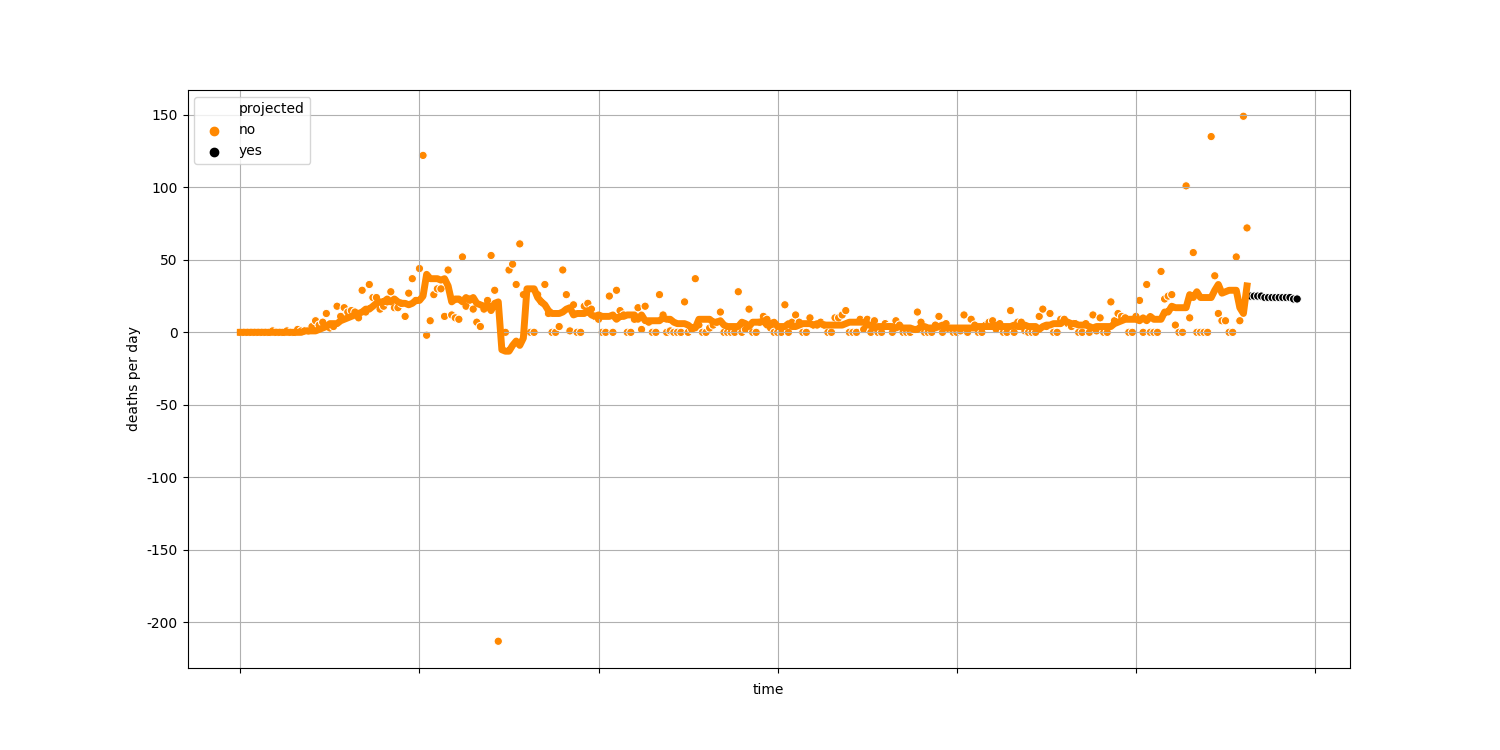
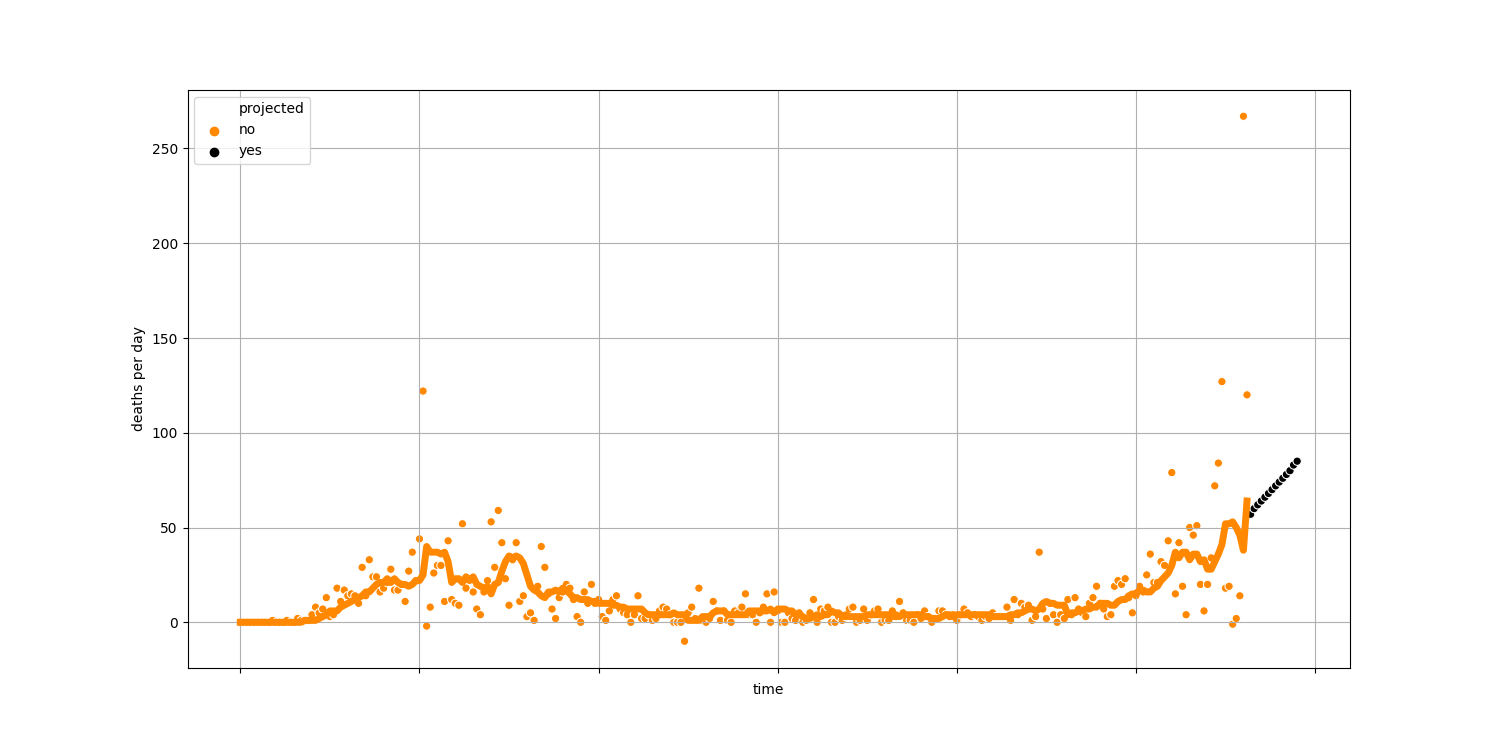
regular update

diff --git a/docs/table.html b/docs/table.html
@@ -100,7 +100,7 @@
     <script type="text/javascript">
       window.addEventListener('DOMContentLoaded', () => {
 
-        const data = [{'state': 'Alabama', 'deaths_per_million_per_day': '8', 'positive_per_million_per_day': '681'}, {'state': 'Alaska', 'deaths_per_million_per_day': '5', 'positive_per_million_per_day': '939'}, {'state': 'American Samoa', 'deaths_per_million_per_day': '0', 'positive_per_million_per_day': '0'}, {'state': 'Arizona', 'deaths_per_million_per_day': '7', 'positive_per_million_per_day': '817'}, {'state': 'Arkansas', 'deaths_per_million_per_day': '13', 'positive_per_million_per_day': '716'}, {'state': 'California', 'deaths_per_million_per_day': '3', 'positive_per_million_per_day': '631'}, {'state': 'Colorado', 'deaths_per_million_per_day': '6', 'positive_per_million_per_day': '773'}, {'state': 'Connecticut', 'deaths_per_million_per_day': '8', 'positive_per_million_per_day': '766'}, {'state': 'Delaware', 'deaths_per_million_per_day': '3', 'positive_per_million_per_day': '836'}, {'state': 'District of Columbia', 'deaths_per_million_per_day': '3', 'positive_per_million_per_day': '407'}, {'state': 'Florida', 'deaths_per_million_per_day': '5', 'positive_per_million_per_day': '424'}, {'state': 'Georgia', 'deaths_per_million_per_day': '5', 'positive_per_million_per_day': '365'}, {'state': 'Guam', 'deaths_per_million_per_day': '0', 'positive_per_million_per_day': '103'}, {'state': 'Hawaii', 'deaths_per_million_per_day': '2', 'positive_per_million_per_day': '72'}, {'state': 'Idaho', 'deaths_per_million_per_day': '9', 'positive_per_million_per_day': '845'}, {'state': 'Illinois', 'deaths_per_million_per_day': '14', 'positive_per_million_per_day': '720'}, {'state': 'Indiana', 'deaths_per_million_per_day': '11', 'positive_per_million_per_day': '1,007'}, {'state': 'Iowa', 'deaths_per_million_per_day': '26', 'positive_per_million_per_day': '494'}, {'state': 'Kansas', 'deaths_per_million_per_day': '13', 'positive_per_million_per_day': '870'}, {'state': 'Kentucky', 'deaths_per_million_per_day': '4', 'positive_per_million_per_day': '715'}, {'state': 'Louisiana', 'deaths_per_million_per_day': '6', 'positive_per_million_per_day': '540'}, {'state': 'Maine', 'deaths_per_million_per_day': '3', 'positive_per_million_per_day': '239'}, {'state': 'Maryland', 'deaths_per_million_per_day': '6', 'positive_per_million_per_day': '456'}, {'state': 'Massachusetts', 'deaths_per_million_per_day': '7', 'positive_per_million_per_day': '723'}, {'state': 'Michigan', 'deaths_per_million_per_day': '12', 'positive_per_million_per_day': '651'}, {'state': 'Minnesota', 'deaths_per_million_per_day': '11', 'positive_per_million_per_day': '918'}, {'state': 'Mississippi', 'deaths_per_million_per_day': '9', 'positive_per_million_per_day': '663'}, {'state': 'Missouri', 'deaths_per_million_per_day': '8', 'positive_per_million_per_day': '593'}, {'state': 'Montana', 'deaths_per_million_per_day': '7', 'positive_per_million_per_day': '775'}, {'state': 'Nebraska', 'deaths_per_million_per_day': '14', 'positive_per_million_per_day': '917'}, {'state': 'Nevada', 'deaths_per_million_per_day': '8', 'positive_per_million_per_day': '897'}, {'state': 'New Hampshire', 'deaths_per_million_per_day': '4', 'positive_per_million_per_day': '552'}, {'state': 'New Jersey', 'deaths_per_million_per_day': '6', 'positive_per_million_per_day': '567'}, {'state': 'New Mexico', 'deaths_per_million_per_day': '13', 'positive_per_million_per_day': '816'}, {'state': 'New York', 'deaths_per_million_per_day': '4', 'positive_per_million_per_day': '505'}, {'state': 'North Carolina', 'deaths_per_million_per_day': '4', 'positive_per_million_per_day': '530'}, {'state': 'North Dakota', 'deaths_per_million_per_day': '21', 'positive_per_million_per_day': '835'}, {'state': 'Northern Mariana Islands', 'deaths_per_million_per_day': '0', 'positive_per_million_per_day': '18'}, {'state': 'Ohio', 'deaths_per_million_per_day': '6', 'positive_per_million_per_day': '1,004'}, {'state': 'Oklahoma', 'deaths_per_million_per_day': '5', 'positive_per_million_per_day': '746'}, {'state': 'Oregon', 'deaths_per_million_per_day': '5', 'positive_per_million_per_day': '343'}, {'state': 'Pennsylvania', 'deaths_per_million_per_day': '11', 'positive_per_million_per_day': '780'}, {'state': 'Puerto Rico', 'deaths_per_million_per_day': '3', 'positive_per_million_per_day': '235'}, {'state': 'Rhode Island', 'deaths_per_million_per_day': '12', 'positive_per_million_per_day': '1,254'}, {'state': 'South Carolina', 'deaths_per_million_per_day': '5', 'positive_per_million_per_day': '516'}, {'state': 'South Dakota', 'deaths_per_million_per_day': '25', 'positive_per_million_per_day': '939'}, {'state': 'Tennessee', 'deaths_per_million_per_day': '10', 'positive_per_million_per_day': '809'}, {'state': 'Texas', 'deaths_per_million_per_day': '7', 'positive_per_million_per_day': '409'}, {'state': 'U.S. Virgin Islands', 'deaths_per_million_per_day': '0', 'positive_per_million_per_day': '181'}, {'state': 'Utah', 'deaths_per_million_per_day': '4', 'positive_per_million_per_day': '906'}, {'state': 'Vermont', 'deaths_per_million_per_day': '3', 'positive_per_million_per_day': '188'}, {'state': 'Virginia', 'deaths_per_million_per_day': '3', 'positive_per_million_per_day': '413'}, {'state': 'Washington', 'deaths_per_million_per_day': '3', 'positive_per_million_per_day': '377'}, {'state': 'West Virginia', 'deaths_per_million_per_day': '10', 'positive_per_million_per_day': '684'}, {'state': 'Wisconsin', 'deaths_per_million_per_day': '11', 'positive_per_million_per_day': '767'}, {'state': 'Wyoming', 'deaths_per_million_per_day': '17', 'positive_per_million_per_day': '835'}, {'state': 'United States', 'deaths_per_million_per_day': '7', 'positive_per_million_per_day': '617'}];
+        const data = [{'state': 'Alabama', 'deaths_per_million_per_day': '8', 'positive_per_million_per_day': '681'}, {'state': 'Alaska', 'deaths_per_million_per_day': '5', 'positive_per_million_per_day': '939'}, {'state': 'American Samoa', 'deaths_per_million_per_day': '0', 'positive_per_million_per_day': '0'}, {'state': 'Arizona', 'deaths_per_million_per_day': '7', 'positive_per_million_per_day': '817'}, {'state': 'Arkansas', 'deaths_per_million_per_day': '13', 'positive_per_million_per_day': '716'}, {'state': 'California', 'deaths_per_million_per_day': '3', 'positive_per_million_per_day': '631'}, {'state': 'Colorado', 'deaths_per_million_per_day': '11', 'positive_per_million_per_day': '773'}, {'state': 'Connecticut', 'deaths_per_million_per_day': '8', 'positive_per_million_per_day': '766'}, {'state': 'Delaware', 'deaths_per_million_per_day': '3', 'positive_per_million_per_day': '836'}, {'state': 'District of Columbia', 'deaths_per_million_per_day': '3', 'positive_per_million_per_day': '407'}, {'state': 'Florida', 'deaths_per_million_per_day': '5', 'positive_per_million_per_day': '424'}, {'state': 'Georgia', 'deaths_per_million_per_day': '5', 'positive_per_million_per_day': '365'}, {'state': 'Guam', 'deaths_per_million_per_day': '0', 'positive_per_million_per_day': '103'}, {'state': 'Hawaii', 'deaths_per_million_per_day': '2', 'positive_per_million_per_day': '72'}, {'state': 'Idaho', 'deaths_per_million_per_day': '9', 'positive_per_million_per_day': '845'}, {'state': 'Illinois', 'deaths_per_million_per_day': '14', 'positive_per_million_per_day': '720'}, {'state': 'Indiana', 'deaths_per_million_per_day': '11', 'positive_per_million_per_day': '1,007'}, {'state': 'Iowa', 'deaths_per_million_per_day': '26', 'positive_per_million_per_day': '494'}, {'state': 'Kansas', 'deaths_per_million_per_day': '13', 'positive_per_million_per_day': '870'}, {'state': 'Kentucky', 'deaths_per_million_per_day': '4', 'positive_per_million_per_day': '715'}, {'state': 'Louisiana', 'deaths_per_million_per_day': '6', 'positive_per_million_per_day': '540'}, {'state': 'Maine', 'deaths_per_million_per_day': '3', 'positive_per_million_per_day': '239'}, {'state': 'Maryland', 'deaths_per_million_per_day': '6', 'positive_per_million_per_day': '456'}, {'state': 'Massachusetts', 'deaths_per_million_per_day': '7', 'positive_per_million_per_day': '723'}, {'state': 'Michigan', 'deaths_per_million_per_day': '12', 'positive_per_million_per_day': '651'}, {'state': 'Minnesota', 'deaths_per_million_per_day': '11', 'positive_per_million_per_day': '918'}, {'state': 'Mississippi', 'deaths_per_million_per_day': '9', 'positive_per_million_per_day': '663'}, {'state': 'Missouri', 'deaths_per_million_per_day': '8', 'positive_per_million_per_day': '593'}, {'state': 'Montana', 'deaths_per_million_per_day': '7', 'positive_per_million_per_day': '775'}, {'state': 'Nebraska', 'deaths_per_million_per_day': '14', 'positive_per_million_per_day': '917'}, {'state': 'Nevada', 'deaths_per_million_per_day': '8', 'positive_per_million_per_day': '897'}, {'state': 'New Hampshire', 'deaths_per_million_per_day': '4', 'positive_per_million_per_day': '552'}, {'state': 'New Jersey', 'deaths_per_million_per_day': '6', 'positive_per_million_per_day': '567'}, {'state': 'New Mexico', 'deaths_per_million_per_day': '13', 'positive_per_million_per_day': '816'}, {'state': 'New York', 'deaths_per_million_per_day': '4', 'positive_per_million_per_day': '505'}, {'state': 'North Carolina', 'deaths_per_million_per_day': '4', 'positive_per_million_per_day': '530'}, {'state': 'North Dakota', 'deaths_per_million_per_day': '21', 'positive_per_million_per_day': '835'}, {'state': 'Northern Mariana Islands', 'deaths_per_million_per_day': '0', 'positive_per_million_per_day': '18'}, {'state': 'Ohio', 'deaths_per_million_per_day': '6', 'positive_per_million_per_day': '1,004'}, {'state': 'Oklahoma', 'deaths_per_million_per_day': '5', 'positive_per_million_per_day': '746'}, {'state': 'Oregon', 'deaths_per_million_per_day': '5', 'positive_per_million_per_day': '343'}, {'state': 'Pennsylvania', 'deaths_per_million_per_day': '11', 'positive_per_million_per_day': '780'}, {'state': 'Puerto Rico', 'deaths_per_million_per_day': '3', 'positive_per_million_per_day': '235'}, {'state': 'Rhode Island', 'deaths_per_million_per_day': '12', 'positive_per_million_per_day': '1,254'}, {'state': 'South Carolina', 'deaths_per_million_per_day': '5', 'positive_per_million_per_day': '516'}, {'state': 'South Dakota', 'deaths_per_million_per_day': '25', 'positive_per_million_per_day': '939'}, {'state': 'Tennessee', 'deaths_per_million_per_day': '10', 'positive_per_million_per_day': '809'}, {'state': 'Texas', 'deaths_per_million_per_day': '7', 'positive_per_million_per_day': '409'}, {'state': 'U.S. Virgin Islands', 'deaths_per_million_per_day': '0', 'positive_per_million_per_day': '181'}, {'state': 'Utah', 'deaths_per_million_per_day': '4', 'positive_per_million_per_day': '906'}, {'state': 'Vermont', 'deaths_per_million_per_day': '3', 'positive_per_million_per_day': '188'}, {'state': 'Virginia', 'deaths_per_million_per_day': '3', 'positive_per_million_per_day': '413'}, {'state': 'Washington', 'deaths_per_million_per_day': '3', 'positive_per_million_per_day': '377'}, {'state': 'West Virginia', 'deaths_per_million_per_day': '10', 'positive_per_million_per_day': '684'}, {'state': 'Wisconsin', 'deaths_per_million_per_day': '11', 'positive_per_million_per_day': '767'}, {'state': 'Wyoming', 'deaths_per_million_per_day': '17', 'positive_per_million_per_day': '835'}, {'state': 'United States', 'deaths_per_million_per_day': '7', 'positive_per_million_per_day': '617'}];
 
         const render = () => {
           const tbody = document.querySelector('tbody');

diff --git a/docs/CO.html b/docs/CO.html
@@ -73,12 +73,12 @@
       </div>
         <div class="grid-col-9">
           <h1 class="font-body-2xl">
-            Colorado has had about 3,005 COVID-19 deaths and
+            Colorado has had about 3,759 COVID-19 deaths and
             276,995 confirmed cases.
             <small>
               That's about <strong>48,100 out of every
               1,000,000</strong> people who we know are or have
-              been infected. About <strong>1.08%</strong>
+              been infected. About <strong>1.36%</strong>
               of people who have tested positive have died.
             </small>
           </h1>
@@ -104,13 +104,13 @@
           <p class="font-body-md">
             Today there were
              <strong>
-            72</strong> COVID-19
+            120</strong> COVID-19
             deaths.
-            There are about <strong>32</strong> new
+            There are about <strong>64</strong> new
             deaths every day (7-day average). At the current rate, the average
             number of people dying each day will be about
-            <strong>24</strong> in 7 days and
-            about <strong>23</strong> in 14
+            <strong>70</strong> in 7 days and
+            about <strong>85</strong> in 14
             days. This chart shows the number of deaths each day since the first
             case was identified. The dots are the total number of deaths for
             each day and the line is the average of the previous seven days. The

diff --git a/docs/index.html b/docs/index.html
@@ -73,7 +73,7 @@
       </div>
         <div class="grid-col-9">
           <h1 class="font-body-2xl">
-            The United States has had about 283,555 COVID-19 deaths and
+            The United States has had about 284,309 COVID-19 deaths and
             15,360,841 confirmed cases.
             <small>
               That's about <strong>46,285 out of every
@@ -104,13 +104,13 @@
           <p class="font-body-md">
             Today there were
              <strong>
-            3,067</strong> COVID-19
+            3,115</strong> COVID-19
             deaths.
-            There are about <strong>2,281</strong> new
+            There are about <strong>2,312</strong> new
             deaths every day (7-day average). At the current rate, the average
             number of people dying each day will be about
-            <strong>2,820</strong> in 7 days and
-            about <strong>3,340</strong> in 14
+            <strong>2,860</strong> in 7 days and
+            about <strong>3,400</strong> in 14
             days. This chart shows the number of deaths each day since the first
             case was identified. The dots are the total number of deaths for
             each day and the line is the average of the previous seven days. The
